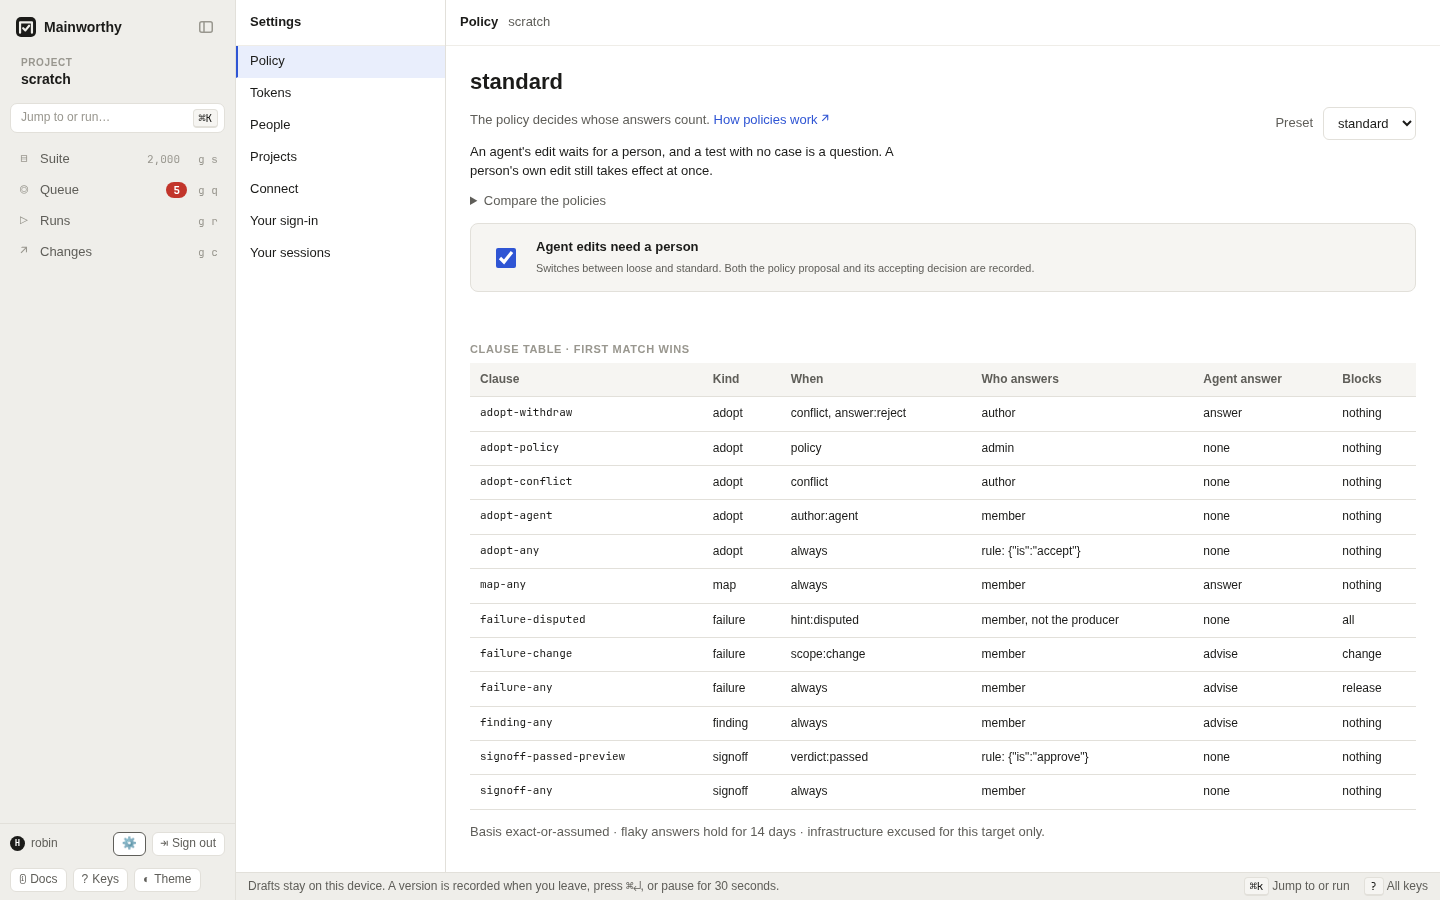
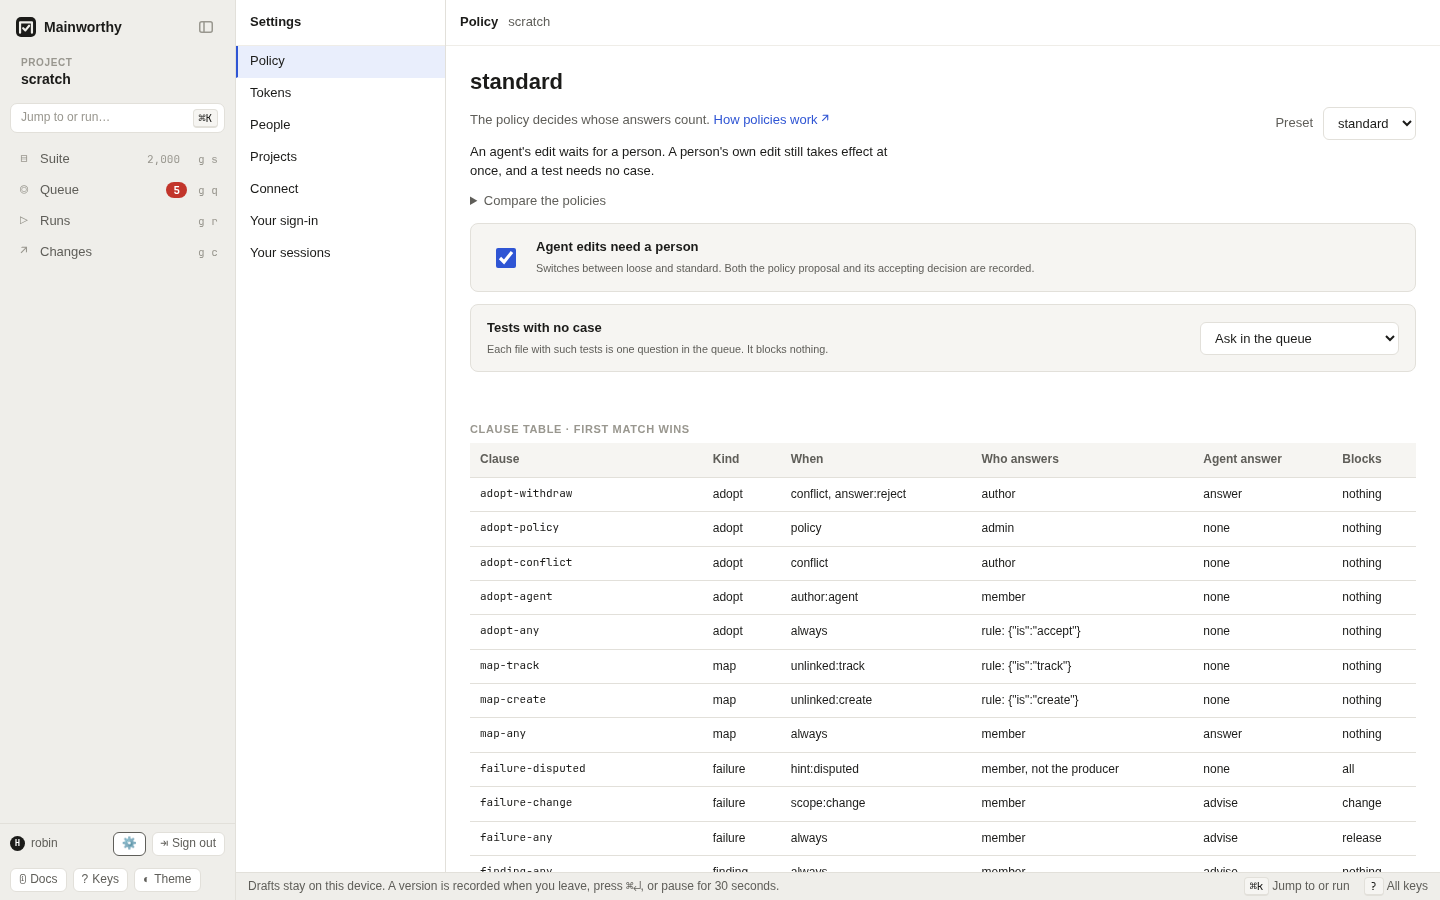
web: the queue says what needs you today, and each question says what leaving it costs
The queue's header read "105 need an answer" and the sidebar's count was
red, for a queue in which one question blocked anything. Nothing on a row
said whether it could wait.

The header now reads "1 failure to explain · 104 can wait", and the
sidebar's count is red only while a failure is open. A failure is the one
kind of question that blocks: nobody has to learn that from the policy.

Under its title an open question says what happens while it stays open. A
failure names the run or the gate it blocks. Every other kind says "Blocks
nothing" and what stays as it is.

The screenshots are made again: the queue with its new line, and Settings
with "Tests with no case".

diff --git a/test/evidence.test.ts b/test/evidence.test.ts
@@ -7,6 +7,7 @@ import { join } from "node:path";
 import { z } from "zod";
 import { Client } from "../src/cli/client.ts";
 import type { GateStatus, InboxReply, ReportReceipt } from "../src/core/ops.ts";
+import { stakes } from "../src/core/stakes.ts";
 import { recoverAccepted, sweep } from "../src/server/jobs.ts";
 import { type Config, defaultConfig, openApp } from "../src/server/kernel/app.ts";
 import { findProject, makeCtx, stampSeq } from "../src/server/kernel/ctx.ts";
@@ -464,6 +465,88 @@ describe("work the server does on its own", () => {
 		// The expired decision stays in the ledger, followed by the row that records that it ran out.
 		expect(count("decisions WHERE kind = 'failure'")).toBe(2);
 		expect(count("excuses")).toBe(0);
+	});
+});
+
+describe("what a failure question says leaving it costs", () => {
+	// The sentence under a question's title (`stakes`) is held to what the server does with the same question.
+	const said = (item: InboxReply["items"][number]) =>
+		stakes({ kind: item.kind, blocks: item.blocks, facts: new Set(item.evidence.facts as string[]) });
+	const held = "While this is open, no gate that counts the unexplained failure passes.";
+
+	test("while a failure question is open, no gate that counts the failure passes, whether or not it names a run", () => {
+		h.call("report", ciReport({ commit: "stakes001", n: 1, fail: { 0: "expected 90, got 100" } }));
+		h.call("report", ciReport({ commit: "stakes002", branch: "fix", pr: 7, n: 1, fail: { 0: "timed out" } }));
+		const [change, trunk] = queue().items;
+		if (!change || !trunk) throw new Error("two failure questions expected");
+		expect(said(change)).toBe(`Listed as blocking ${change.blocks.join(", ")}. ${held}`);
+		expect(gate("stakes002").verdict).toBe("blocked");
+		// A failure on the line names no run under `loose`, and its commit's gate does not pass all the same.
+		expect(trunk.blocks).toEqual([]);
+		expect(said(trunk)).toBe(held);
+		expect(gate("stakes001").verdict).toBe("blocked");
+		// Beside a failure a person called a defect, the gate reads failed: still not passed.
+		h.call("report", {
+			...ciReport({ commit: "stakes001", n: 1, fail: { 0: "another cause entirely" }, file: "tests/other.spec.ts" }),
+			job: "other",
+		});
+		const other = first(queue().items.filter((item) => item.title.includes("another cause")));
+		decide(other, { is: "defect" });
+		expect(gate("stakes001").verdict).not.toBe("passed");
+	});
+
+	test("the sentence is true of a failure no gate counts: an agent's, on a commit whose gate passes", () => {
+		const agent = h.actor("runner", "agent", ["read", "produce"]);
+		h.call("report", ciReport({ commit: "stakes003", n: 1, file: "tests/passes.spec.ts" }));
+		h.call(
+			"report",
+			ciReport({ commit: "stakes003", n: 1, file: "tests/agent.spec.ts", fail: { 0: "agent saw it" } }),
+			agent,
+		);
+		expect(said(first(queue().items))).toBe(held);
+		expect(gate("stakes003")).toMatchObject({ verdict: "passed", open: [] });
+	});
+
+	test("a listed run can pass again while the question stays open for a newer commit: it is listed, not said to be blocked", () => {
+		// The same test fails in job `one` on two commits of a pull request, and the older commit's job is run again.
+		for (const commit of ["stakes005", "stakes006"])
+			h.call("report", { ...ciReport({ commit, branch: "fix", pr: 9, n: 1, fail: { 0: "timed out" } }), job: "one" });
+		h.call("report", { ...ciReport({ commit: "stakes005", branch: "fix", pr: 9, n: 1 }), job: "one", attempt: 2 });
+		const asked = first(queue().items);
+		expect(gate("stakes005").verdict).toBe("passed");
+		expect(gate("stakes006").verdict).toBe("blocked");
+		expect(said(asked)).toStartWith("Listed as blocking ");
+		expect(said(asked)).toEndWith(held);
+	});
+
+	test("a failing result stops counting when it is replaced, and not when a pass is reported beside it", () => {
+		// The guide's account of how a block ends without an answer, which the sentence leaves to it.
+		h.call("propose", { edits: [{ op: "create", outline: "Coupon applies\n  Apply SAVE10 > Total is 90" }] });
+		const run = h.call<{ run: string }>("plan", { name: "Release check", select: { cases: ["C-1"] } }).run;
+		const failed = h.call<ReportReceipt>("report", {
+			run,
+			results: [{ test: { case: "C-1" }, outcome: "fail", failure: { message: "expected 90, got 100" } }],
+		});
+		h.call("report", { run, results: [{ test: { case: "C-1" }, outcome: "pass" }] });
+		expect(h.call<GateStatus>("gate", { run }).verdict).toBe("blocked");
+		// A result that corrects it replaces it, whatever its outcome: skipped, the run waits for a result again.
+		h.call("report", { run, results: [{ test: { case: "C-1" }, outcome: "skip", corrects: failed.results[0] }] });
+		expect(h.call<GateStatus>("gate", { run }).verdict).not.toBe("blocked");
+		// On a commit: a newer attempt of another job does not replace it, nor does a newer attempt of the same
+		// job in which the test was skipped. A newer attempt of the same job that passes does.
+		h.call("report", { ...ciReport({ commit: "stakes004", n: 1, fail: { 0: "timed out" } }), job: "one" });
+		h.call("report", { ...ciReport({ commit: "stakes004", n: 1 }), job: "two", attempt: 2 });
+		expect(gate("stakes004").verdict).toBe("blocked");
+		const again = ciReport({ commit: "stakes004", n: 1 });
+		h.call("report", {
+			...again,
+			job: "one",
+			attempt: 2,
+			results: again.results.map((result) => ({ test: result.test, outcome: "skip" })),
+		});
+		expect(gate("stakes004").verdict).toBe("blocked");
+		h.call("report", { ...again, job: "one", attempt: 3 });
+		expect(gate("stakes004").verdict).toBe("passed");
 	});
 });
 

diff --git a/src/core/stakes.ts b/src/core/stakes.ts
@@ -1,0 +1,66 @@
+// What leaving a question unanswered costs, in a sentence, and which open questions can wait.
+// The queue prints it under a question's title, so nobody has to work out whether a row needs them today.
+import type { Kind } from "./kinds.ts";
+
+/**
+ * Whether an open question of this kind is urgent. Only an unexplained failure is: it blocks every run that
+ * counts it under any policy (a clause's `blocks` says which runs list the question, not what the verdict is).
+ * Every other kind leaves things as they are until somebody answers.
+ */
+export const urgent = (kind: Kind): boolean => kind === "failure";
+
+/** The open questions that are failures to explain and those that can wait, from the queue's counts by kind. */
+export function waiting(counts: Readonly<Record<string, number>>): { failures: number; canWait: number } {
+	const failures = counts.failure ?? 0;
+	return { failures, canWait: Math.max(0, (counts.open ?? 0) - failures) };
+}
+
+/** The queue's count in words: "1 failure to explain · 104 can wait". */
+export function waitingPhrase(counts: Readonly<Record<string, number>>): string {
+	const { failures, canWait } = waiting(counts);
+	if (failures === 0 && canWait === 0) return "nothing needs an answer";
+	const parts: string[] = [];
+	if (failures > 0) parts.push(`${failures} ${failures === 1 ? "failure" : "failures"} to explain`);
+	if (canWait > 0) parts.push(`${canWait} can wait`);
+	return parts.join(" · ");
+}
+
+/** Run refs in a sentence: the first three, and how many more. */
+const named = (refs: readonly string[]): string =>
+	refs.length <= 3 ? refs.join(", ") : `${refs.slice(0, 3).join(", ")} and ${refs.length - 3} more`;
+
+/**
+ * What happens while this question stays open. `blocks` are the runs it names; `facts` are the question's
+ * (`conflict`, `policy`).
+ *
+ * A failure's sentence says the one thing that holds of every open failure question: while nobody has explained
+ * the failure, no gate that counts it passes. ("The unexplained failure" is the occurrence the question asks
+ * about: an earlier occurrence of the same cause that somebody answered for another target is excused there.) It does not say which gates those are, or how the block can end
+ * without an answer. A question cannot tell: the runs it names are the ones it was listed under as its results
+ * arrived, an older commit's among them, and a failing result stops counting when it is replaced, whatever the
+ * outcome that replaces it. The guide describes those; a sentence that tried to was wrong in some case each time.
+ */
+export function stakes(question: { kind: Kind; blocks: readonly string[]; facts: ReadonlySet<string> }): string {
+	const { kind, blocks, facts } = question;
+	switch (kind) {
+		case "failure": {
+			const held = "While this is open, no gate that counts the unexplained failure passes.";
+			return blocks.length > 0 ? `Listed as blocking ${named(blocks)}. ${held}` : held;
+		}
+		case "map":
+			return "Blocks nothing. Left alone, these tests still run and still gate the build, and no case gets credit for them.";
+		case "adopt":
+			if (facts.has("policy")) return "Blocks nothing. Left alone, the policy stays as it is.";
+			if (facts.has("conflict"))
+				return "Blocks nothing. Left alone, the case stays as it is: the edit was made on an older version and waits for its author.";
+			return "Blocks nothing. Left alone, the case stays as it is and the edit waits.";
+		case "finding":
+			return "Blocks nothing. Left alone, the finding stays on record with no answer.";
+		case "signoff":
+			return "Blocks nothing. Left alone, the run stays open.";
+		default: {
+			const _exhaustive: never = kind;
+			return _exhaustive;
+		}
+	}
+}

diff --git a/src/core/stakes.test.ts b/src/core/stakes.test.ts
@@ -1,0 +1,36 @@
+import { expect, test } from "bun:test";
+import { KINDS } from "./kinds.ts";
+import { stakes, urgent, waiting, waitingPhrase } from "./stakes.ts";
+
+test("only a failure is urgent, and the count says how many there are and how many questions can wait", () => {
+	expect(KINDS.filter(urgent)).toEqual(["failure"]);
+	expect(waiting({ open: 105, failure: 1, map: 104 })).toEqual({ failures: 1, canWait: 104 });
+	expect(waitingPhrase({ open: 105, failure: 1, map: 104 })).toBe("1 failure to explain · 104 can wait");
+	expect(waitingPhrase({ open: 3, failure: 3 })).toBe("3 failures to explain");
+	expect(waitingPhrase({ open: 2, map: 1, finding: 1 })).toBe("2 can wait");
+	expect(waitingPhrase({ open: 0 })).toBe("nothing needs an answer");
+	expect(waitingPhrase({})).toBe("nothing needs an answer");
+});
+
+test("every kind of question says what leaving it costs, and only a failure blocks anything", () => {
+	const none = new Set<string>();
+	for (const kind of KINDS) {
+		const text = stakes({ kind, blocks: [], facts: none });
+		expect(text.startsWith("Blocks nothing.")).toBe(!urgent(kind));
+		expect(text.endsWith(".")).toBe(true);
+	}
+	const failure = (blocks: string[], facts: string[] = []) =>
+		stakes({ kind: "failure", blocks, facts: new Set(facts) });
+	const held = "While this is open, no gate that counts the unexplained failure passes.";
+	expect(failure(["R-83"], ["scope:change"])).toBe(`Listed as blocking R-83. ${held}`);
+	// Many runs are named by the first three and a count.
+	expect(failure(["R-1", "R-2", "R-3", "R-4", "R-5"])).toBe(`Listed as blocking R-1, R-2, R-3 and 2 more. ${held}`);
+	// A failure that names no run says the same of any gate that counts it, whatever its scope, and denies none.
+	for (const scope of ["scope:change", "scope:trunk", "scope:run"]) expect(failure([], [scope])).toBe(held);
+	// No sentence says how a block ends without an answer, or that a named run is blocked now: a question
+	// cannot tell either (the guide does).
+	for (const text of [failure(["R-1"]), failure([])]) expect(text).not.toMatch(/until|reads blocked|newer|passing/);
+	const adopt = (facts: string[]) => stakes({ kind: "adopt", blocks: [], facts: new Set(facts) });
+	expect(adopt(["policy"])).toContain("the policy stays as it is");
+	expect(adopt(["conflict"])).toContain("waits for its author");
+});

diff --git a/test/e2e/triage.test.ts b/test/e2e/triage.test.ts
@@ -220,6 +220,18 @@ async function recordedDecisions(server: Server, ref: string) {
 				expect(bounds && bounds.y >= 0 && bounds.y + bounds.height <= 772).toBe(true);
 			}
 			await page.locator(".assertion-comparison").waitFor();
+			// The count says how many failures wait to be explained and how many questions can wait, and the
+			// sidebar is red only for the first.
+			expect(await page.locator("#list .phead .dim").innerText()).toBe("5 failures to explain · 15 can wait");
+			const badge = page.locator('#nav a[aria-label="Queue"] em');
+			expect(await badge.getAttribute("class")).toBe("hot");
+			expect(await badge.getAttribute("title")).toBe("5 failures to explain · 15 can wait");
+			// Failures come first, and each says what leaving it costs. These were typed for a session, so they
+			// name no run.
+			expect(first.kind).toBe("failure");
+			expect(await page.locator(".queue-stakes").innerText()).toBe(
+				"While this is open, no gate that counts the unexplained failure passes.",
+			);
 			const loads = view.loads();
 			await page.keyboard.press("g");
 			await page.keyboard.press("q");
@@ -584,6 +596,10 @@ async function recordedDecisions(server: Server, ref: string) {
 			view = await openPage(server, { path: `/p/scratch/queue/${map.q.slice(2)}` });
 			view.page.setDefaultTimeout(8000);
 			await view.page.waitForSelector("[data-current-question]");
+			// A test with no case holds nothing: the row says so, and the sidebar's count is not red.
+			expect(await view.page.locator(".queue-stakes").innerText()).toStartWith("Blocks nothing. Left alone,");
+			expect(await view.page.locator("#list .phead .dim").innerText()).toBe("1 can wait");
+			expect(await view.page.locator('#nav a[aria-label="Queue"] em').getAttribute("class")).toBe("");
 			await view.page.keyboard.press("l");
 			await view.page.locator(".palette-input").waitFor();
 			await view.page.keyboard.type("C-1");

diff --git a/src/web/queue/index.tsx b/src/web/queue/index.tsx
@@ -4,6 +4,7 @@ import { z } from "zod";
 import type { Api } from "../../core/api.ts";
 import { ANSWER_HELP, ANSWER_KEYS, ANSWER_LABELS, ANSWERS, KINDS, type Kind } from "../../core/kinds.ts";
 import type { InboxReply, QuestionItem } from "../../core/ops.ts";
+import { stakes, waitingPhrase } from "../../core/stakes.ts";
 import { call } from "../lib/api.ts";
 import { invalidateProject, queryClient, queryKey, useQueryOp } from "../lib/data.ts";
 import { deviceKey, deviceSession, sessionCurrent } from "../lib/device.ts";
@@ -661,7 +662,7 @@ function QueueWorkbench() {
 			<section className="pane queue-pane" id="list">
 				<div className="phead">
 					<b>Queue</b>
-					<span className="dim">{counts.open ?? 0} need an answer</span>
+					<span className="dim">{waitingPhrase(counts)}</span>
 					<div className="queue-state">
 						<button
 							type="button"
@@ -795,6 +796,15 @@ function QueueWorkbench() {
 								{current.blocks.length > 0 && <span className="blk">blocks {current.blocks.join(", ")}</span>}
 							</div>
 							<h2>{current.title}</h2>
+							{state === "open" && (
+								<p className="queue-stakes">
+									{stakes({
+										kind: current.kind,
+										blocks: current.blocks,
+										facts: new Set(z.array(z.string()).safeParse(current.evidence.facts).data ?? []),
+									})}
+								</p>
+							)}
 						</div>
 						<div className="pane-scroll queue-evidence" key={current.q}>
 							<div className="sech">

diff --git a/src/web/app.tsx b/src/web/app.tsx
@@ -3,6 +3,7 @@ import { flushSync } from "react-dom";
 import { z } from "zod";
 import type { SessionInfo } from "../core/api.ts";
 import { DOC_PAGES, type DocSlug, docUrl, SCREEN_DOCS } from "../core/docs.ts";
+import { waiting, waitingPhrase } from "../core/stakes.ts";
 import { CaseScreen } from "./case/index.tsx";
 import { ChangesScreen } from "./changes/index.tsx";
 import { ApiError, session, signedOut, unauthenticatedEvent } from "./lib/api.ts";
@@ -530,7 +531,11 @@ function Workbench({ info, refreshSession }: { info: SessionInfo; refreshSession
 								<span className="nav-label">{item.label}</span>
 								{item.screen === "suite" && <em>{folders.data?.count?.toLocaleString()}</em>}
 								{item.screen === "queue" && (
-									<em className={inbox.data?.counts.open ? "hot" : ""}>
+									// Red only while a failure waits to be explained: a count that is always red is one nobody reads.
+									<em
+										className={waiting(inbox.data?.counts ?? {}).failures > 0 ? "hot" : ""}
+										title={waitingPhrase(inbox.data?.counts ?? {})}
+									>
 										{inbox.data?.counts.open ?? Object.values(inbox.data?.counts ?? {}).reduce((a, b) => a + b, 0)}
 									</em>
 								)}

diff --git a/src/web/queue/queue.css b/src/web/queue/queue.css
@@ -77,6 +77,12 @@
 	margin: 10px 0 4px;
 	overflow-wrap: anywhere;
 }
+.queue-stakes {
+	margin: 0 0 4px;
+	color: var(--dim);
+	font-size: 12px;
+	max-width: 78ch;
+}
 .queue-evidence {
 	padding: 0 24px 12px;
 	min-height: 160px;

diff --git a/CHANGELOG.md b/CHANGELOG.md
@@ -68,3 +68,4 @@
 - 2026-10-13: web: **Changed:** the sidebar has a button that collapses it, beside "Mainworthy" at its top, and the browser remembers the choice (decision 0020). `[` already collapsed the sidebar, and so did a click on the mark, which nothing on the page said; the mark no longer does. Collapsed, the pane on the right takes the sidebar's width: at 1440 px a case gets 719 px where it had 547, and a question in the Queue 892 where it had 720. **Fixed:** a collapsed sidebar gave every screen the Suite's columns, so it narrowed the right pane of Queue (720 to 547 px), Runs and Changes (662 to 547) and Settings (994 to 547), and in a window under 760 px it narrowed both panes from 580 to 216 px. It also hid every key cap in the app, not only the sidebar's. Collapsing or opening the sidebar no longer undoes a case pane widened with `z`. With `z` in a window under 1100 px the sidebar keeps its width (it widened to 236 px), and under 760 px `z` no longer leaves an empty column beside the list and the case.
 - 2026-10-13: web: a page no longer keeps an answer that was read before a change it was told of (issue #87). When the page asked for something for the first time and a change to it was told while the reply was on its way, the reply counted as current for 15 seconds: a question a colleague settled in the moment you began to answer it stayed open on your screen and did not say "settled". Such a first read is now asked once more when it lands. This was also why the test R3B-2 failed in about one check of three on a 10-thread Mac.
 - 2026-10-13: **what happens to a test with no case is the project's own choice** (decision 0021). Track it without a case, make a case for each test, or ask in the queue, one question per file: Settings, Policy, "Tests with no case", or `mainworthy policy tests <ask|track|create>`. Changing the choice answers every open question about a file at once. **Changed:** `standard` no longer asks about tests with no case. It tracks them, as `loose` does, and now differs from `loose` in holding an agent's edit for a person and in who settles a dispute. `strict` still asks. A project made before this keeps the clauses it had, so it behaves as it did and is listed as `custom`: choose its preset again to get the new clauses. A policy edit that sends `settings` now sends `unlinked` with them. **New:** the policy edit and `project.create` take `unlinked`; the predicates `unlinked:track` and `unlinked:create`; the session's project list says each project's choice. **Fixed:** a link made in the queue was removed when another test turned up in the same file, and so were the links of "Create cases". A link now holds for the tests it names. The agent tool list grew from 3,892 to 3,928 tokens, and its ceiling from 3,900 to 3,950.
+- 2026-10-13: web: **the queue says what needs you today.** The line beside "Queue" reads "1 failure to explain · 104 can wait" where it read "105 need an answer", and the count in the sidebar is red only while a failure is open. Under its title, each open question says what leaving it costs: a failure says that no gate that counts it passes while it is open, and names the runs it is listed as blocking, and every other kind says "Blocks nothing" and what stays as it is.

diff --git a/docs/guide/decide.md b/docs/guide/decide.md
@@ -18,9 +18,41 @@ The "Open" view contains questions that need an answer. "Settled" contains decis
 You can filter by "Proposals", "Unlinked", "Failures", "Findings", or "Sign-offs".
 See [the keyboard guide](./keyboard.md) for the full key list.
 
+## Know what needs you today
+
+The line beside "Queue" splits the open questions in two, for example
+"1 failure to explain · 104 can wait". Start with the failures. They are listed first,
+and the count beside Queue in the sidebar is red only while one is open.
+
+A failure is the one kind of question that blocks anything. While nobody has explained a
+failure, no gate that counts it passes. An earlier occurrence of the same cause that someone
+answered for another build stays excused there. Every other kind leaves things as they are until
+someone answers: a proposed edit waits, a finding stays on record, and a test with no case
+still runs and still gates the build.
+
+Under its title, each open question says what leaving it costs. For example:
+
+- "Listed as blocking R-83. While this is open, no gate that counts the unexplained failure passes."
+- "Blocks nothing. Left alone, these tests still run and still gate the build, and no case gets credit for them."
+
+The runs a failure lists are the ones it was listed under as its results arrived. Open a
+run to read its gate as it is now: an older commit's run can pass again while a newer
+commit keeps the question open.
+
+A failure stops blocking a gate in two ways. Someone answers the question. Or the failing
+result is replaced. A newer attempt of the same job that passes replaces it; an attempt
+that is skipped or blocked leaves the failure in place. A result that names
+the failing one as the result it corrects replaces it whatever its outcome: passed, skipped
+or blocked. A pass reported beside the failure replaces nothing. The two disagree, and a
+person settles that.
+A pull request's gate is the gate of its newest commit, so a newer commit that passes moves
+the pull request on. The older commit keeps the verdict it had.
+
+A failure that only an agent reported, or one typed for a session, is counted by no commit's
+gate. It is still a failure to explain.
+
 A question asks for a judgment about recorded evidence. It is not a test result.
 Several occurrences of the same failure cause can share one question.
-A question can block a gate, or ask for a decision without blocking anything.
 Look for "blocks gate" and the runs named beside the question.
 
 [Diagram: the life of a question](../diagrams/question-lifecycle.html)
